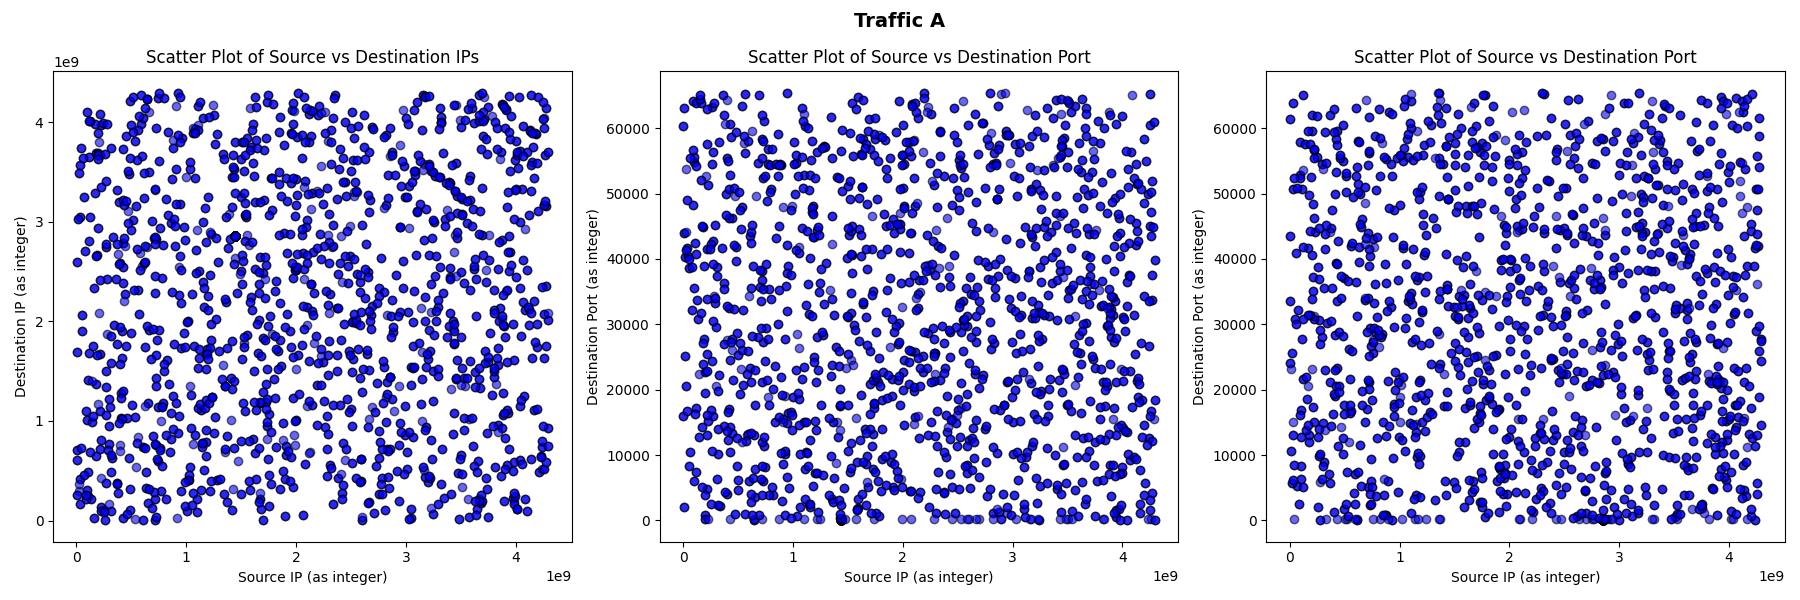
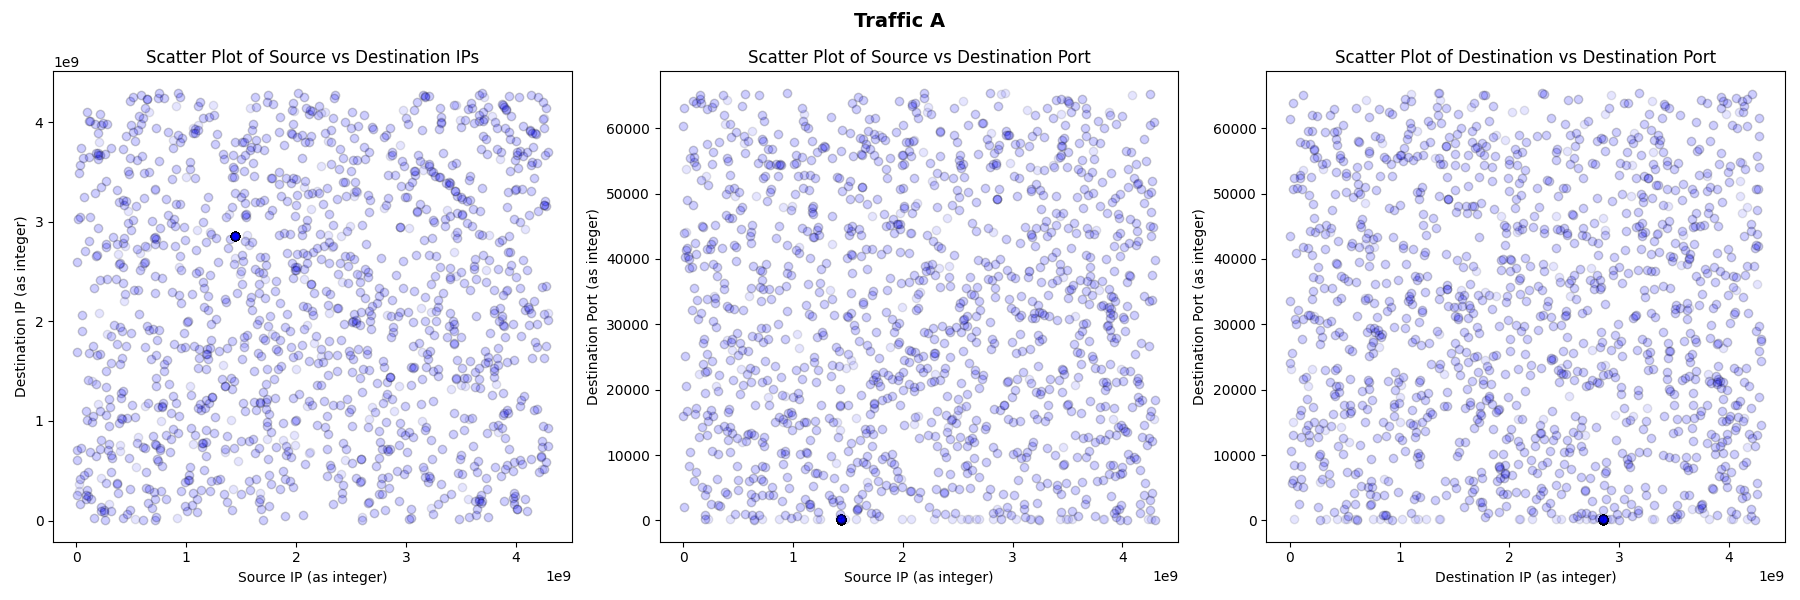
Improved plots

diff --git a/exercise3_part2.py b/exercise3_part2.py
@@ -145,12 +145,18 @@ def rep_18b():
 def rep_18b_tables():
     statistic_A_dict = rep_18a()
     statistic_B_dict = rep_18b()
+
+    # Convert Statistic from per day top per hour
     statistic_dict = {
-        "Month File Statistic": statistic_A_dict,
-        "Year File Statistic": statistic_B_dict
+        "Month File Statistic": {
+            "index": ["#pkts/hour", "#bytes/hour", "#uIPs/hour", "#uIPs/hour"],
+            "values": statistic_A_dict,
+        },
+        "Year File Statistic": {
+            "index": ["#pkts/day", "#bytes/day", "#uIPs/day", "#uIPs/day"],
+            "values": statistic_B_dict,
+        }
     }
-    
-    index_table = ["#pkts/hour", "#bytes/hour", "#uIPs/hour", "#uIPs/hour"]
 
     for title, stat_dict in statistic_dict.items():
         table_dict = {
@@ -159,13 +165,13 @@ def rep_18b_tables():
             "median": [],
             "std_dev": []
         }
-        for key in stat_dict:
-            table_dict["total_sum"].append(stat_dict[key]["total_sum"])
-            table_dict["mean"].append(stat_dict[key]["mean"])
-            table_dict["median"].append(stat_dict[key]["median"])
-            table_dict["std_dev"].append(stat_dict[key]["std_dev"])
+        for key in stat_dict["values"]:
+            table_dict["total_sum"].append(stat_dict["values"][key]["total_sum"])
+            table_dict["mean"].append(stat_dict["values"][key]["mean"])
+            table_dict["median"].append(stat_dict["values"][key]["median"])
+            table_dict["std_dev"].append(stat_dict["values"][key]["std_dev"])
 
-        df = pd.DataFrame(table_dict, index=index_table)
+        df = pd.DataFrame(table_dict, index=stat_dict["index"])
         
         fig, ax = plt.subplots(figsize=(8, 2.5))
         fig.suptitle(title, fontsize=14, weight='bold', y=0.8)
@@ -393,14 +399,14 @@ if __name__ == "__main__":
     # =================================================================================
     # === Part 2: rep-18a
     # =================================================================================
-    rep_18a()
+    # rep_18a()
 
     # =================================================================================
     # === Part 2: rep-18b
     # =================================================================================
-    rep_18b()
+    # rep_18b()
 
     rep_18b_tables()
 
-    rep_18b_diagrams()
+    # rep_18b_diagrams()
 

diff --git a/exercise4_part3.py b/exercise4_part3.py
@@ -32,7 +32,7 @@ def create_scatter_plot(csv_file, title=""):
     y = np.array(dstIP_int_list)
 
     ax = axes[0]
-    ax.scatter(x, y, c='blue', alpha=0.6, edgecolors='black')
+    ax.scatter(x, y, c='blue', alpha=0.1, edgecolors='black')
     ax.set_title('Scatter Plot of Source vs Destination IPs')
     ax.set_xlabel('Source IP (as integer)')
     ax.set_ylabel('Destination IP (as integer)')
@@ -42,7 +42,7 @@ def create_scatter_plot(csv_file, title=""):
     y = np.array(dstPort_list)
 
     ax = axes[1]
-    ax.scatter(x, y, c='blue', alpha=0.6, edgecolors='black')
+    ax.scatter(x, y, c='blue', alpha=0.1, edgecolors='black')
     ax.set_xlabel('Source IP (as integer)')
     ax.set_ylabel('Destination Port (as integer)')
     ax.set_title('Scatter Plot of Source vs Destination Port')
@@ -52,7 +52,7 @@ def create_scatter_plot(csv_file, title=""):
     y = np.array(dstPort_list)
 
     ax = axes[2]
-    ax.scatter(x, y, c='blue', alpha=0.6, edgecolors='black')
+    ax.scatter(x, y, c='blue', alpha=0.1, edgecolors='black')
     ax.set_xlabel('Destination IP (as integer)')
     ax.set_ylabel('Destination Port (as integer)')
     ax.set_title('Scatter Plot of Destination vs Destination Port')

diff --git a/exercise3_part1.py b/exercise3_part1.py
@@ -129,12 +129,12 @@ def rep_15_diagrams(source_file):
         },
         "Unique IP sources": {
             "title": "Number of Unique IP sources per hour (daily average)",
-            "ylabel": "#bytes/hour [millions]",
+            "ylabel": "#uIPs/hour [millions]",
             "values": uip_src_list
         },
         "Unique IP destinations": {
             "title": "Number of Unique IP destinations per hour (daily average)",
-            "ylabel": "#bytes/hour [millions]",
+            "ylabel": "#uIPd/hour [millions]",
             "values": uip_dst_list
         },
     }
